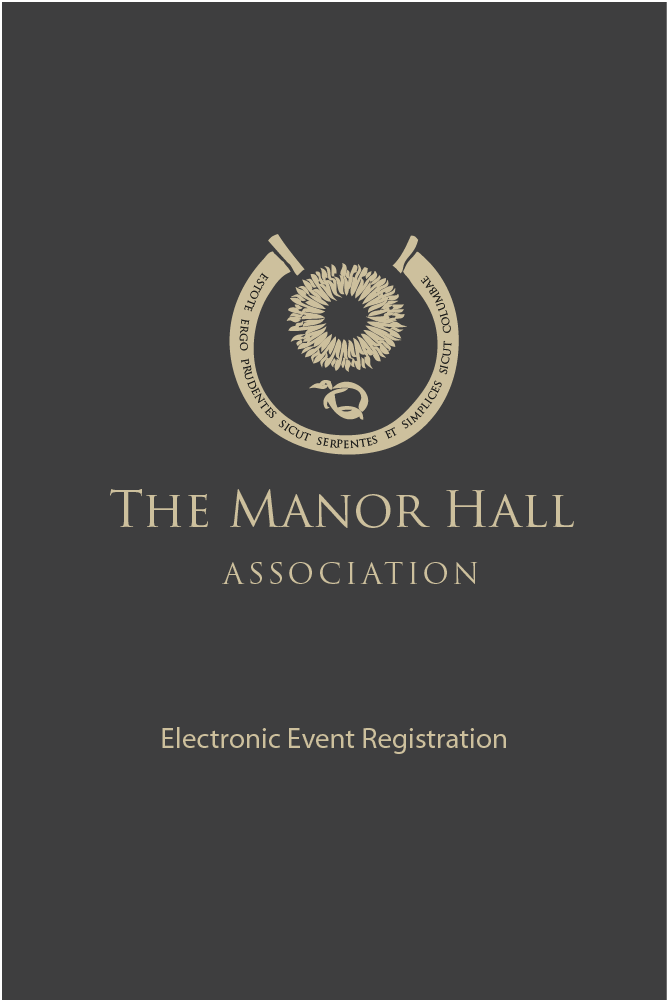
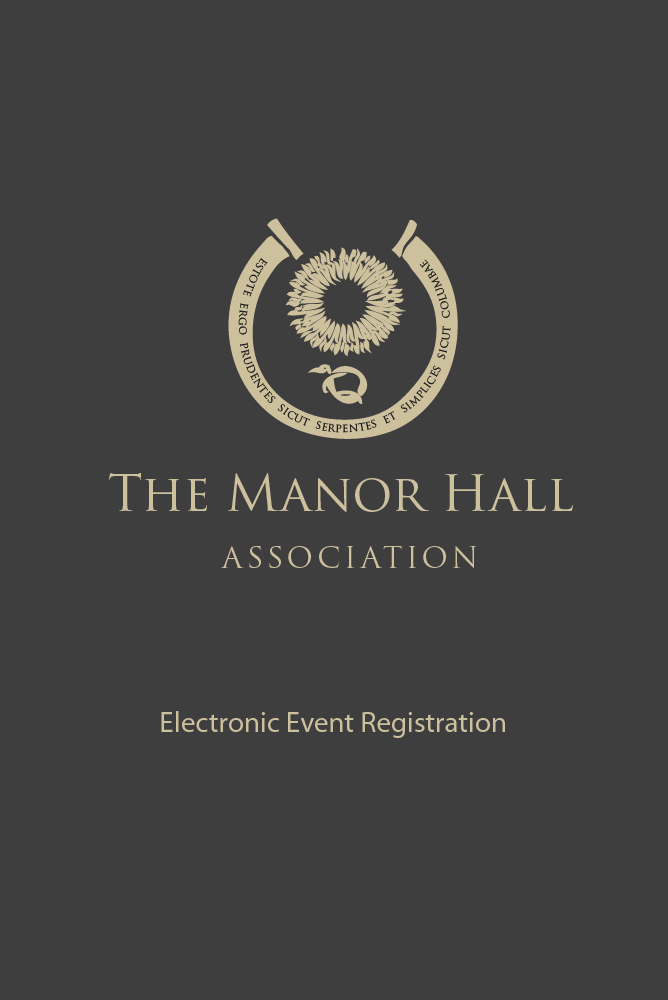
added the iOS splash screens with the exception of iPhone 6 displays

diff --git a/themes/custom/mha_res/templates/html--ereg.tpl.php b/themes/custom/mha_res/templates/html--ereg.tpl.php
@@ -57,7 +57,53 @@
   <link rel="apple-touch-icon" sizes="120x120" href="<?php print $base_url . '/' . path_to_theme();?>/images/apple/iphone-ret.png">
   <link rel="apple-touch-icon" sizes="152x152" href="<?php print $base_url . '/' .  path_to_theme();?>/images/apple/touch-icon-ipad-retina.png">
     
-    <link rel="apple-touch-startup-image" href="<?php print $base_url . '/' .  path_to_theme();?>/images/apple/startup.png" />
+    
+    !-- iPhone -->
+<link href="<?php print $base_url . '/' .  path_to_theme();?>/images/apple/apple-touch-startup-image-320x460.png"
+      media="(device-width: 320px) and (device-height: 480px)
+         and (-webkit-device-pixel-ratio: 1)"
+      rel="apple-touch-startup-image">
+<!-- iPhone (Retina) -->
+<link href="<?php print $base_url . '/' .  path_to_theme();?>/images/apple/apple-touch-startup-image-640x920.png"
+      media="(device-width: 320px) and (device-height: 480px)
+         and (-webkit-device-pixel-ratio: 2)"
+      rel="apple-touch-startup-image">
+<!-- iPhone 5 -->
+<link href="<?php print $base_url . '/' .  path_to_theme();?>/images/apple/apple-touch-startup-image-640x1096.png"
+      media="(device-width: 320px) and (device-height: 568px)
+         and (-webkit-device-pixel-ratio: 2)"
+      rel="apple-touch-startup-image">
+<!-- iPad (portrait) -->
+<link href="<?php print $base_url . '/' .  path_to_theme();?>/images/apple/apple-touch-startup-image-768x1004.png"
+      media="(device-width: 768px) and (device-height: 1024px)
+         and (orientation: portrait)
+         and (-webkit-device-pixel-ratio: 1)"
+      rel="apple-touch-startup-image">
+<!-- iPad (landscape) -->
+<link href="<?php print $base_url . '/' .  path_to_theme();?>/images/apple/apple-touch-startup-image-748x1024.png"
+      media="(device-width: 768px) and (device-height: 1024px)
+         and (orientation: landscape)
+         and (-webkit-device-pixel-ratio: 1)"
+      rel="apple-touch-startup-image">
+<!-- iPad (Retina, portrait) -->
+<link href="<?php print $base_url . '/' .  path_to_theme();?>/images/apple/apple-touch-startup-image-1536x2008.png"
+      media="(device-width: 768px) and (device-height: 1024px)
+         and (orientation: portrait)
+         and (-webkit-device-pixel-ratio: 2)"
+      rel="apple-touch-startup-image">
+<!-- iPad (Retina, landscape) -->
+<link href="<?php print $base_url . '/' .  path_to_theme();?>/images/apple/apple-touch-startup-image-1496x2048.png"
+      media="(device-width: 768px) and (device-height: 1024px)
+         and (orientation: landscape)
+         and (-webkit-device-pixel-ratio: 2)"
+      rel="apple-touch-startup-image">
+    
+  <!-- iPhone LAUNCHSCREEN-->
+  <link href="includes/images/apple-launch-480h.png" sizes="320x480" media="(device-height: 480px)" rel="apple-touch-startup-image">
+  <!-- iPhone (Retina) LAUNCHSCREEN-->
+  <link href="includes/images/apple-launch-480h2X.png" sizes="640x920" media="(device-height: 480px) and (-webkit-device-pixel-ratio: 2)" rel="apple-touch-startup-image">
+  <!-- iPhone 5+ LAUNCHSCREEN-->
+  <link href="includes/images/apple-launch-568h.png" sizes="640x1136" media="(device-height: 568px)" rel="apple-touch-startup-image">
   
   <?php print $head; ?>
   <title><?php print $head_title; ?></title>
